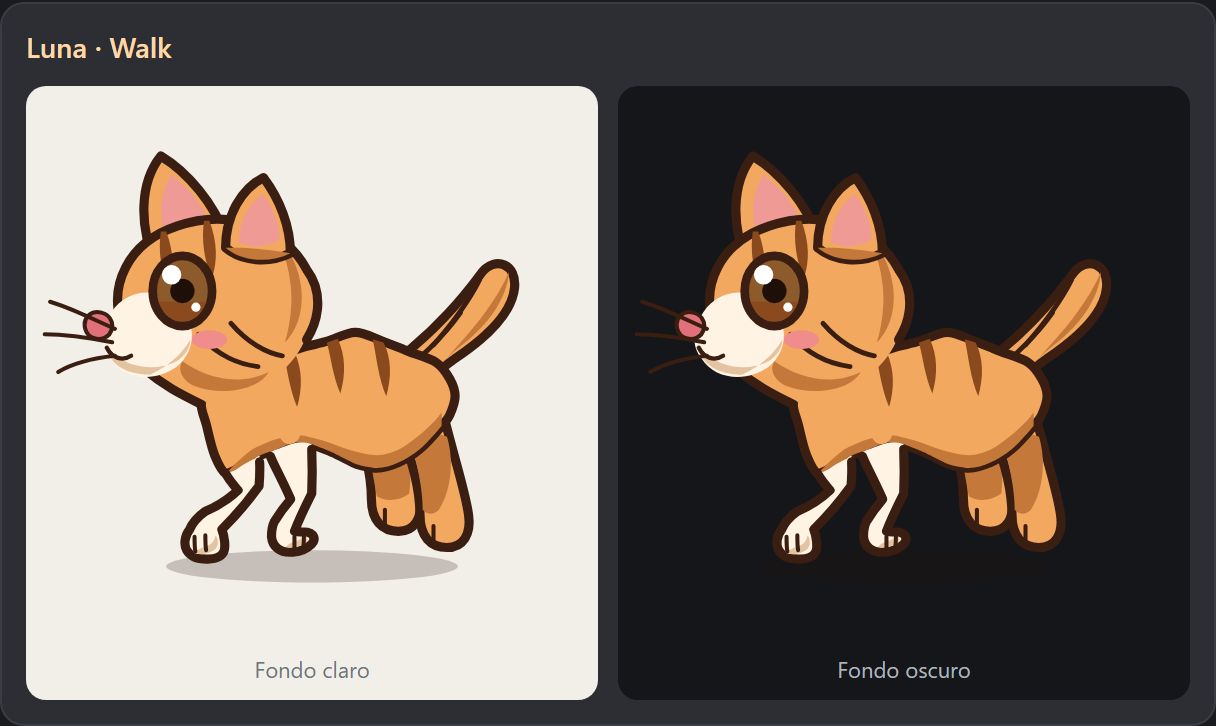
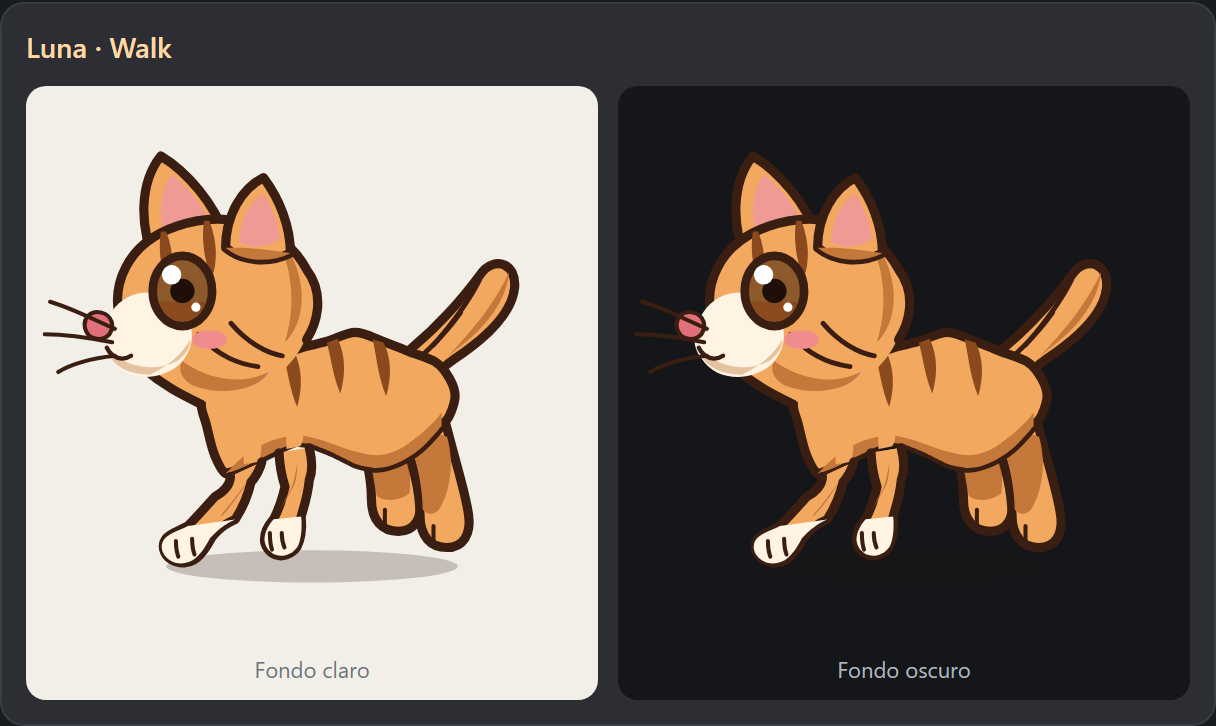
fix(corregir-la-pose-de-caminar-de): hallazgos de qa ronda 1

Changed region(s): [[0.5938, 0.6061, 0.75, 0.7879], [0.125, 0.6061, 0.2812, 0.7879]]

diff --git a/src/assets/cat.js b/src/assets/cat.js
@@ -190,111 +190,109 @@ const catWalkSVG = `<svg id="pet-svg" viewBox="0 0 200 200" xmlns="http://www.w3
 
   <g class="anim-breath pet-body" style="transform-origin: 104px 116px; transform: translateY(0px) rotate(0deg);">
     <path class="cel-outline"
-          d="M 59,111 C 59.5,108.5 61.8,106.9 64,105 C 66.2,103.1 69,101.1 72,99.5 C 75,97.9 79,96.6 82,95.5 C 85,94.4 87.3,93.8 90,93 C 92.7,92.2 95.3,91.3 98,90.5 C 100.7,89.8 103,89.4 106,88.5 C 109,87.6 112.7,85.3 116,85.3 C 119.3,85.3 122.7,87.3 126,88.5 C 129.3,89.7 132.7,91.2 136,92.5 C 139.3,93.8 143.5,94.8 146,96.5 C 148.5,98.2 149.8,100.4 151,102.5 C 152.2,104.6 153,106.8 153,109 C 153,111.3 151.8,114.2 151,116 C 150.2,117.8 149.8,117.9 148,120 C 146.2,122.1 142.7,126.3 140,128.5 C 137.3,130.8 134.7,132.3 132,133.5 C 129.3,134.7 127,135.5 124,135.6 C 123.3,135.8 116.9,134.5 116,134 C 115.1,133.5 108.9,130.5 108,130 C 107.1,129.5 100.7,127.1 100,126.8 C 99.3,126.5 94.7,126.1 94,126 C 93.3,125.9 86.7,128.7 86,129 C 85.3,129.3 80.6,130.8 80,131.2 C 79.4,131.6 76.5,133.6 76,134 C 75.5,134.4 72.5,135.7 72,136 C 71.5,136.3 68.4,137.9 68,137.6 C 66.7,136.8 65.2,133.9 64,131 C 62.8,128.1 61.8,123.3 61,120 C 60.2,116.7 58.5,113.5 59,111 Z"
+          d="M 59,111 C 59.2,108.2 61,106.4 64,105 C 66.2,103.1 69,101.1 72,99.5 C 75,97.9 79,96.6 82,95.5 C 85,94.4 87.3,93.8 90,93 C 92.7,92.2 95.3,91.3 98,90.5 C 100.7,89.8 103,89.4 106,88.5 C 109,87.6 112.7,85.3 116,85.3 C 119.3,85.3 122.7,87.3 126,88.5 C 129.3,89.7 132.7,91.2 136,92.5 C 139.3,93.8 143.5,94.8 146,96.5 C 148.5,98.2 149.8,100.4 151,102.5 C 152.2,104.6 153,106.8 153,109 C 153,111.3 151.8,114.2 151,116 C 150.2,117.8 149.8,117.9 148,120 C 146.2,122.1 142.7,126.3 140,128.5 C 137.3,130.8 134.7,132.3 132,133.5 C 129.3,134.7 127,135.5 124,135.6 C 123.3,135.8 116.9,134.5 116,134 C 115.1,133.5 108.9,130.5 108,130 C 107.1,129.5 100.7,127.1 100,126.8 C 99.3,126.5 94.7,126.1 94,126 C 92.5,126.4 89,128.1 84,130.6 C 79,133.1 73.5,136.4 68,137.6 C 66.7,136.8 65.2,133.9 64,131 C 62.8,128.1 61.8,123.3 61,120 C 60.2,116.7 58.5,113.5 59,111 Z"
           fill="#F2A85E" stroke="#3A1E12" stroke-width="3.4" stroke-linejoin="round" stroke-linecap="round" />
     <path class="cel-shadow"
-          d="M 148,120 C 146.2,122.1 142.7,126.3 140,128.5 C 137.3,130.8 134.7,132.3 132,133.5 C 129.3,134.7 127,135.5 124,135.6 C 123.3,135.8 116.9,134.5 116,134 C 115.1,133.5 108.9,130.5 108,130 C 107.1,129.5 100.7,127.1 100,126.8 C 99.3,126.5 94.7,126.1 94,126 C 93.3,125.9 86.7,128.7 86,129 C 85.3,129.3 80.6,130.8 80,131.2 C 79.4,131.6 76.5,133.6 76,134 C 75.5,134.4 72.5,135.7 72,136 C 71.5,136.3 68.4,137.9 68,137.6 C 76,129.6 77.8,128.6 80,127.6 C 82.2,126.6 84.5,125.5 87,124.8 C 89.5,124.1 92.2,123.3 95,123.4 C 97.8,123.5 100.8,124.5 104,125.4 C 107.2,126.3 110.7,128 114,128.9 C 117.3,129.8 121,130.8 124,130.8 C 127,130.8 129.5,129.9 132,128.8 C 134.5,127.7 136.8,125.7 139,124 C 141.2,122.3 143.5,120.1 145,118.6 C 146.5,117.1 147.5,115.6 148,115 Z"
+          d="M 148,120 C 146.2,122.1 142.7,126.3 140,128.5 C 137.3,130.8 134.7,132.3 132,133.5 C 129.3,134.7 127,135.5 124,135.6 C 123.3,135.8 116.9,134.5 116,134 C 115.1,133.5 108.9,130.5 108,130 C 107.1,129.5 100.7,127.1 100,126.8 C 99.3,126.5 94.7,126.1 94,126 C 92.5,126.4 89,128.1 84,130.6 C 79,133.1 73.5,136.4 68,137.6 C 76,129.6 77.8,128.6 80,127.6 C 82.2,126.6 84.5,125.5 87,124.8 C 89.5,124.1 92.2,123.3 95,123.4 C 97.8,123.5 100.8,124.5 104,125.4 C 107.2,126.3 110.7,128 114,128.9 C 117.3,129.8 121,130.8 124,130.8 C 127,130.8 129.5,129.9 132,128.8 C 134.5,127.7 136.8,125.7 139,124 C 141.2,122.3 143.5,120.1 145,118.6 C 146.5,117.1 147.5,115.6 148,115 Z"
           fill="#C4783A" />
     <path d="M 93.5,92.6 C 96.5,99 96.5,106 94.5,113 C 91.5,106 91,99 89.5,94 Z" fill="#8A4A1E" />
     <path d="M 109.5,87.7 C 112.5,94 112.5,101 110.5,108 C 107.5,101 107,94 105.5,89.2 Z" fill="#8A4A1E" />
     <path d="M 126.5,89.1 C 129.5,95 129.5,102 127.5,109 C 124.5,102 124,95 122.5,87.9 Z" fill="#8A4A1E" />
   </g>
 
-  <g class="left-paw" style="transform-origin: 73px 126px;">
+  <g class="left-paw" style="transform-origin: 76px 124px;">
     <path class="cel-base"
-          d="M 68,137.6
-             C 69.6,140.4 71.2,142.2 72.6,143.8
-             C 68.8,147.4 64.4,150 60.4,151.7
-             C 58,153.4 55.8,155.6 54.6,158.5
-             C 52.9,160.6 52.4,163.9 53.6,166
-             C 55,168.4 58,169.4 61.5,169.3
-             C 64.4,169.2 66.7,168.3 67.4,166.4
-             C 68,164.7 67.7,161.2 66.6,158.3
-             C 71.4,153.6 76.2,148 80.4,142.2
-             C 80.6,138.8 80.7,134.6 80.6,130.9
-             C 80.1,131.1 79.5,131.4 79,131.9
-             C 76.7,133 73.8,134.7 72,136
-             C 70.2,136.9 69.3,138.4 68,137.6 Z"
-          fill="#FFF4E4" />
-    <path class="cel-base"
-          d="M 70.2,123.8
-             C 71.4,121.4 74.4,120.6 76.2,122.4
-             C 77.8,124 77.8,126.4 76.4,128
-             C 74.6,129.9 71.7,129.8 70.3,127.7
-             C 69.3,126.3 69.4,125.1 70.2,123.8 Z"
+          d="M 69.8,138.7
+             C 69.7,141.4 67.6,144.2 64,146.2
+             C 60.6,150 57,154 54,157
+             C 51,158.8 47.4,159.6 45.8,161.8
+             C 44.2,164 44.8,167.4 47.8,169.4
+             C 50.8,171.4 54.8,171 57.4,168.8
+             C 60,166.6 61.4,164 62.8,161.4
+             C 65,158.4 68.2,156 71.6,154.6
+             C 74.2,150.4 76.4,145.4 77.4,140.8
+             C 79,139.2 81,135.6 81.4,133.3             M 74.8,134.2
+             C 74.4,130.6 74.8,126.6 75.6,123.4
+             C 76.4,121 78.2,120.4 79.6,121.8
+             C 81,123.2 81.4,126 81.2,128.8
+             C 81,130.8 80.8,132 80.4,133.2 Z"
           fill="#F2A85E" />
     <path class="cel-outline"
-          d="M 68,137.6
-             C 69.6,140.4 71.2,142.2 72.6,143.8
-             C 68.8,147.4 64.4,150 60.4,151.7
-             C 58,153.4 55.8,155.6 54.6,158.5
-             C 52.9,160.6 52.4,163.9 53.6,166
-             C 55,168.4 58,169.4 61.5,169.3
-             C 64.4,169.2 66.7,168.3 67.4,166.4
-             C 68,164.7 67.7,161.2 66.6,158.3
-             C 71.4,153.6 76.2,148 80.4,142.2
-             C 80.6,139.5 80.7,135 80.6,133.3"
-             fill="#FFF4E4" stroke="#3A1E12" stroke-width="3.4" stroke-linejoin="round" stroke-linecap="round" />
+          d="M 69.8,138.7
+             C 69.7,141.4 67.6,144.2 64,146.2
+             C 60.6,150 57,154 54,157
+             C 51,158.8 47.4,159.6 45.8,161.8
+             C 44.2,164 44.8,167.4 47.8,169.4
+             C 50.8,171.4 54.8,171 57.4,168.8
+             C 60,166.6 61.4,164 62.8,161.4
+             C 65,158.4 68.2,156 71.6,154.6
+             C 74.2,150.4 76.4,145.4 77.4,140.8
+             C 79,139.2 81,135.6 81.4,133.3"
+          fill="#F2A85E" stroke="#3A1E12" stroke-width="3.4" stroke-linejoin="round" stroke-linecap="round" />
     <path class="cel-shadow"
-          d="M 64.3,160.5
-             C 65.4,162 65.4,164 64.4,165.4
-             C 62.2,167.4 58.8,168 56.2,167
-             C 57.4,165.9 59,165 60.8,164.6
-             C 62.7,164.1 63.8,162.7 64.3,160.5 Z"
-          fill="#E4C4A0" />
-    <path d="M 56.5,161 C 56.5,163 56.5,165 56.8,166.5" fill="none" stroke="#3A1E12" stroke-width="1.5" stroke-linecap="round" />
-    <path d="M 60.5,160.5 C 60.5,162.5 60.5,164.5 60.8,166" fill="none" stroke="#3A1E12" stroke-width="1.5" stroke-linecap="round" />
-  </g>
-  <g class="right-paw" style="transform-origin: 89px 124px;">
+          d="M 66.6,152.6
+             C 70,148.8 72.6,145 75,142
+             C 76.4,140.2 77.2,138 77.6,136
+             C 77,138.2 76.2,140.6 74.8,142.8
+             C 72.4,146 70.4,149.6 66.2,153.6 Z"
+          fill="#C4783A" />
     <path class="cel-base"
-          d="M 84.6,129.5
-             C 85.4,133 88.3,138.5 92.1,147.1
-             C 89.6,150 87.4,153.2 86,155.5
-             C 85.2,157.2 85,159.2 85,161
-             C 85.2,163 85.9,164.3 87.2,165.3
-             C 88.7,166.5 90.9,166.9 93,166.7
-             C 95.6,166.5 98,165.6 99.8,163.8
-             C 100.9,162.8 101.2,161.6 100.2,160.3
-             C 99.2,159.2 97.6,159.2 95.8,159.2
-             C 95,159.1 94.2,159 93.5,159
-             C 95.2,154.5 97.6,149.6 99.9,145
-             C 100.1,140 100.1,132 99.9,126.8
-             C 98.6,126.1 96.8,126.1 95,126.1
-             C 92,126.5 88.7,128.1 86,129
-             C 85.5,129.3 85,129.4 84.6,129.5 Z"
+          d="M 54,157
+             C 50.2,159 46.8,159.8 45.2,162
+             C 43.6,164.2 44.2,167.6 47.2,169.6
+             C 50.2,171.6 54.2,171.2 56.8,169
+             C 59.4,166.8 60.8,164.2 62.2,161.6
+             C 65,158.4 68.2,156 71.6,154.6
+             Z"
           fill="#FFF4E4" />
+    <path d="M 49.6,162.6 C 49.6,164.8 49.9,166.8 50.5,168.4" fill="none" stroke="#3A1E12" stroke-width="1.5" stroke-linecap="round" />
+    <path d="M 55.6,161.8 C 55.6,164 55.9,166 56.5,167.6" fill="none" stroke="#3A1E12" stroke-width="1.5" stroke-linecap="round" />
+  </g>
+  <g class="right-paw" style="transform-origin: 94px 124px;">
     <path class="cel-base"
-          d="M 88.6,120.8
-             C 89.9,118.6 92.9,118 94.6,120
-             C 96,121.7 95.9,124 94.5,125.5
-             C 92.7,127.3 89.9,127.1 88.6,125
-             C 87.7,123.6 87.8,122.1 88.6,120.8 Z"
+          d="M 87.8,129.9
+             C 87.9,133.4 88.6,138 90,142.5
+             C 89,147 87.4,151.4 85.8,154.5
+             C 83.6,157 82.4,159.6 82.4,162
+             C 82.4,164.6 84.4,167 86.8,167.8
+             C 89,168.6 92.4,167.6 94.4,164.8
+             C 95.8,162.2 96.4,157.8 96,153.5
+             C 97.2,149.4 98.6,145 99,140
+             C 100.4,136.6 99.8,131.4 99,128.05             M 90.6,128.5
+             C 90.2,125 90.6,121.4 91.6,119
+             C 92.4,116.8 94.2,116.4 95.4,117.8
+             C 96.6,119.2 97,121.6 96.8,124
+             C 96.6,125.8 96.2,127 95.4,127.6 Z"
           fill="#F2A85E" />
     <path class="cel-outline"
-          d="M 84.6,131.2
-             C 85.4,133.6 88.3,138.5 92.1,147.1
-             C 89.6,150 87.4,153.2 86,155.5
-             C 85.2,157.2 85,159.2 85,161
-             C 85.2,163 85.9,164.3 87.2,165.3
-             C 88.7,166.5 90.9,166.9 93,166.7
-             C 95.6,166.5 98,165.6 99.8,163.8
-             C 100.9,162.8 101.2,161.6 100.2,160.3
-             C 99.2,159.2 97.6,159.2 95.8,159.2
-             C 95,159.1 94.2,159 93.5,159
-             C 95.2,154.5 97.6,149.6 99.9,145
-             C 100.1,140.5 100.1,133.5 99.9,128.6"
-          fill="#FFF4E4" stroke="#3A1E12" stroke-width="3.4" stroke-linejoin="round" stroke-linecap="round" />
+          d="M 87.8,129.9
+             C 87.9,133.4 88.6,138 90,142.5
+             C 89,147 87.4,151.4 85.8,154.5
+             C 83.6,157 82.4,159.6 82.4,162
+             C 82.4,164.6 84.4,167 86.8,167.8
+             C 89,168.6 92.4,167.6 94.4,164.8
+             C 95.8,162.2 96.4,157.8 96,153.5
+             C 97.2,149.4 98.6,145 99,140
+             C 100.4,136.6 99.8,131.4 99,128.05"
+          fill="#F2A85E" stroke="#3A1E12" stroke-width="3.4" stroke-linejoin="round" stroke-linecap="round" />
     <path class="cel-shadow"
-          d="M 97.6,160.6
-             C 98.5,161.5 98.5,162.6 97.5,163.4
-             C 95.6,164.7 92.8,165.2 90.3,164.7
-             C 91.2,163.8 92.4,163.1 93.9,162.7
-             C 95.7,162.2 96.9,161.6 97.6,160.6 Z"
-          fill="#E4C4A0" />
-    <path d="M 93.5,161 C 93.5,162.5 93.5,164 93.5,165" fill="none" stroke="#3A1E12" stroke-width="1.5" stroke-linecap="round" />
-    <path d="M 97,160.5 C 97,162 97,163.5 96.8,164.5" fill="none" stroke="#3A1E12" stroke-width="1.5" stroke-linecap="round" />
+          d="M 88.4,150.4
+             C 90.6,146.8 92.6,143.6 93.8,140.8
+             C 94.4,138 94.6,135.4 94.6,134
+             C 94,136.4 93.6,139 93,141.4
+             C 91.8,144.4 90,147.4 88,151 Z"
+          fill="#C4783A" />
+    <path class="cel-base"
+          d="M 85.8,154.5
+             C 83.6,157 82.4,159.6 82.4,162
+             C 82.4,164.6 84.4,167 86.8,167.8
+             C 89.4,168.6 92.6,167.6 94.6,164.8
+             C 96,162.2 96.4,157.8 96,153.5
+             Z"
+          fill="#FFF4E4" />
+    <path d="M 84.4,159.6 C 84.4,161.8 84.6,164 85.2,165.8" fill="none" stroke="#3A1E12" stroke-width="1.5" stroke-linecap="round" />
+    <path d="M 88.8,159.6 C 88.8,161.6 89.2,163.6 89.8,165" fill="none" stroke="#3A1E12" stroke-width="1.5" stroke-linecap="round" />
   </g>
-
   <g class="pet-head anim-breath" style="transform-origin: 70px 98px; transform: translateY(0px) rotate(0deg);">
     <g class="pet-ear pet-ear-left" style="transform-origin: 52px 40px;">
       <path class="cel-outline"

diff --git a/src/styles/animations.css b/src/styles/animations.css
@@ -140,7 +140,7 @@
 }
 .cat-walk .left-paw {
   animation: catWalkSwingRight 0.65s infinite ease-in-out;
-  transform-origin: 73px 126px;
+  transform-origin: 76px 124px;
 }
 .cat-walk .back-foot-right {
   animation: catWalkSwingRight 0.65s infinite ease-in-out;
@@ -148,7 +148,7 @@
 }
 .cat-walk .right-paw {
   animation: catWalkSwingLeft 0.65s infinite ease-in-out;
-  transform-origin: 89px 124px;
+  transform-origin: 94px 124px;
 }
 .cat-walk .pet-body { transform-origin: 104px 116px; }
 .cat-walk .pet-head { transform-origin: 70px 98px; }
